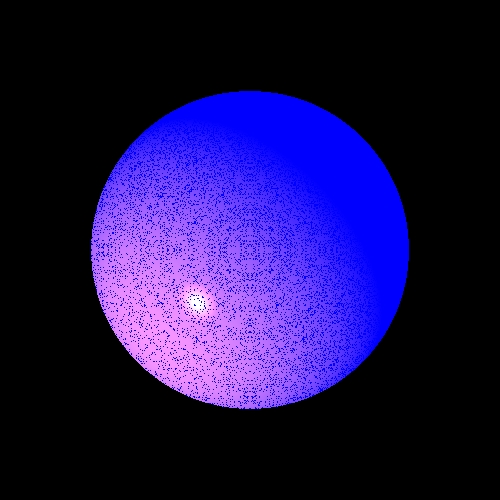
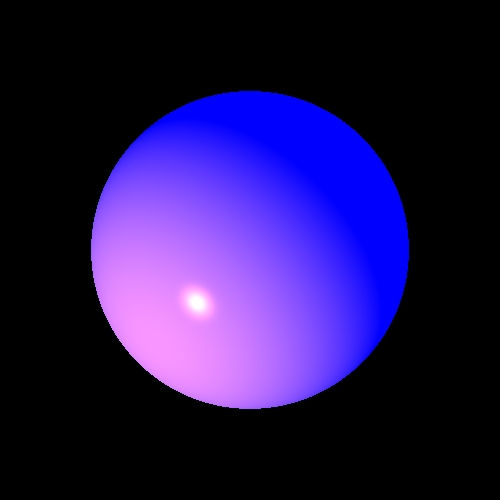
kjuhg

Changed region(s): [[0.18, 0.24, 0.75, 0.81], [0.18, 0.57, 0.21, 0.6]]

diff --git a/src/renderer/Render.java b/src/renderer/Render.java
@@ -17,6 +17,7 @@ public class Render {
 
    private static final int MAX_CALC_COLOR_LEVEL = 10;
    private static final double MIN_CALC_COLOR_K = 0.001;
+   private static final double DELTA = 0.1;
    private Scene scene;
    private ImageWriter image;
    public Render(ImageWriter _imageWriter, Scene _scene) {
@@ -137,9 +138,9 @@ public class Render {
         //we inverse the direction of the ray which go out from the light
         Vector LightDirection=lightSource.getL(gp.point).Scale(-1);
         Point3D geometryPoint=new Point3D(gp.point);
-        n.Scale(2);
-        geometryPoint.add(n);
-        Ray lightRay=new Ray(geometryPoint,LightDirection);
+        n.Scale(DELTA);
+        Point3D newPoint=geometryPoint.add(n);
+        Ray lightRay=new Ray(newPoint,LightDirection);
         List<Intersectable.GeoPoint> intersectionPoints=scene.getGeometries().findIntersections(lightRay);
         if (intersectionPoints==null) {
             return true;
@@ -151,7 +152,6 @@ public class Render {
         Vector lightDirection = l.Scale(-1); // from point to light source
         Ray lightRay = new Ray(geopoint.point, lightDirection, n);
         Point3D pointGeo = geopoint.point;
-
         List<Intersectable.GeoPoint> intersections = scene.getGeometries().findIntersections(lightRay);
         if (intersections == null) {
             return 1d;
